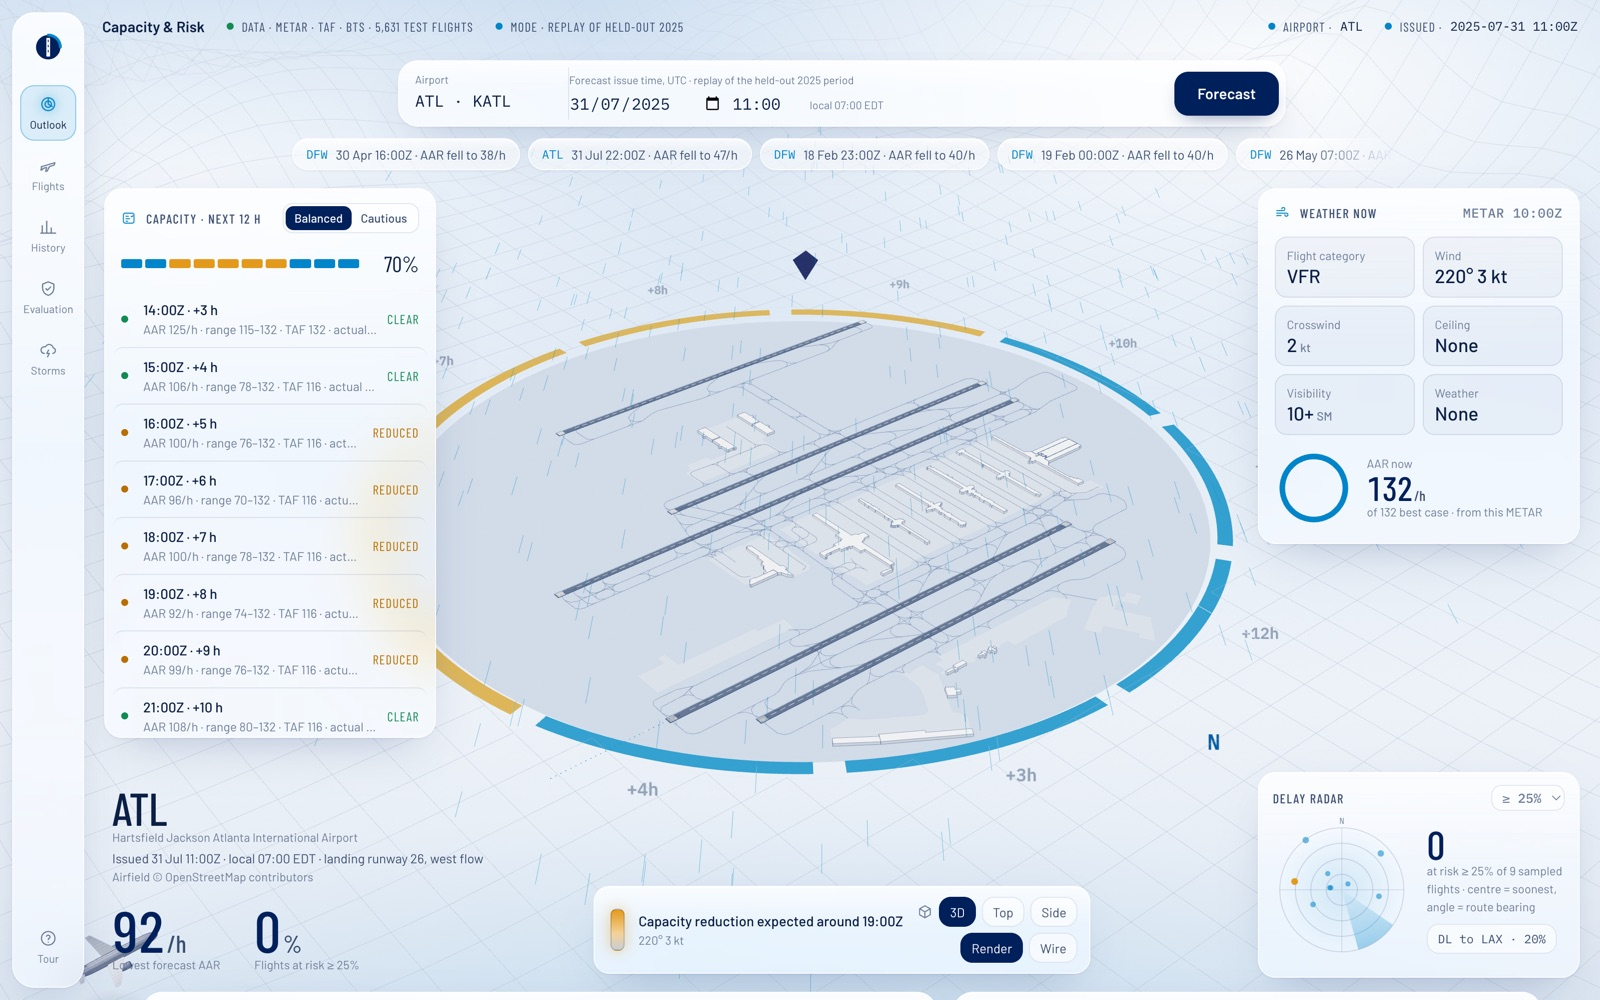
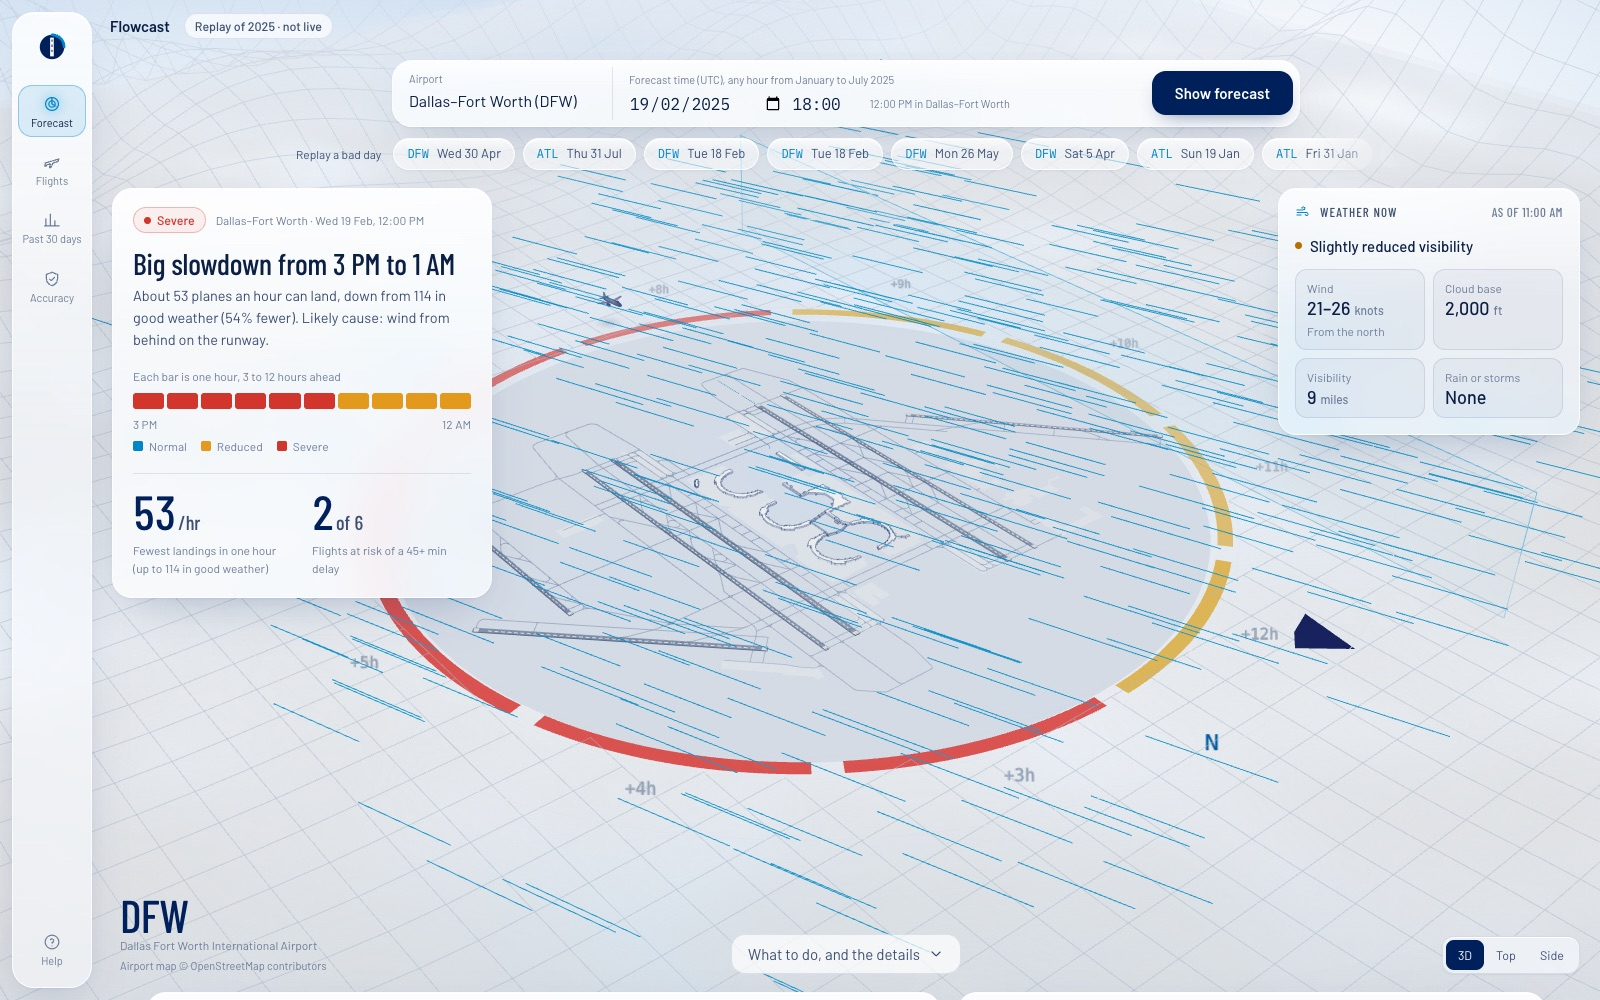
README: describe the simplified dashboard, new screenshot
Refresh the dashboard screenshot and its alt text, and list the four views.
Also move the wind direction in the weather tile onto its own line
("From the north") so the value no longer wraps awkwardly.

diff --git a/dashboard/web/app.js b/dashboard/web/app.js
@@ -34,7 +34,7 @@ const AIRLINES = { AA: "American", DL: "Delta", UA: "United", WN: "Southwest", B
 const HAZ = { thunder: "thunderstorms", low_vis: "low cloud or poor visibility", xwind: "strong crosswind on the runway", tail: "wind from behind on the runway" };
 const WX = { TS: "thunderstorm", SH: "showers", FZ: "freezing", RA: "rain", SN: "snow", DZ: "drizzle", BR: "mist", FG: "fog", HZ: "haze", GR: "hail", GS: "hail",
              PL: "ice pellets", UP: "rain or snow", SQ: "squalls", VC: "nearby", FU: "smoke" };
-const COMPASS = ["N", "NE", "E", "SE", "S", "SW", "W", "NW"];
+const COMPASS = ["north", "north-east", "east", "south-east", "south", "south-west", "west", "north-west"];
 
 // ---------- state ----------
 const S = { view: "outlook", meta: null, icao: "KATL", t0: "", sens: "balanced", thr: 0.25, reveal: true, out: null, hist: null, ev: null,
@@ -171,12 +171,12 @@ function weatherBody(w) {
   const CAT = { VFR: ["Good flying weather", "ok"], MVFR: ["Slightly reduced visibility", "warn"], IFR: ["Low cloud or poor visibility", "stop"], LIFR: ["Very low cloud or fog", "stop"] };
   const [say, tone] = CAT[w.category] || ["Conditions not reported", "mute"];
   const x = Math.abs(w.crosswind_kt ?? 0), c = w.ceiling_ft, v = w.vis_mi;
-  const wind = w.wind_kt == null ? "—" : w.wind_kt < 1 ? "Calm"
-    : `${w.wind_kt}${w.gust_kt ? `–${w.gust_kt}` : ""}<small>knots${w.wind_dir == null ? "" : ` from ${COMPASS[Math.round(w.wind_dir / 45) % 8]}`}</small>`;
+  const wind = w.wind_kt == null ? "—" : w.wind_kt < 1 ? "Calm" : `${w.wind_kt}${w.gust_kt ? `–${w.gust_kt}` : ""}<small>knots</small>`;
+  const windSub = [w.wind_kt >= 1 && w.wind_dir != null ? `From the ${COMPASS[Math.round(w.wind_dir / 45) % 8]}` : "", x >= 10 ? `${x} knots across the runway` : ""].filter(Boolean).join(", ");
   const tile = (l, val, t = "", sub = "") => `<div class="tile"><div class="label">${l}</div><div class="tv t-${t}">${val}</div>${sub}</div>`;
   return `<p class="wx-say"><span class="dot ${tone}"></span>${say}</p>
     <div class="tiles">
-      ${tile("Wind", wind, x >= 15 ? "stop" : x >= 10 ? "warn" : "", x >= 10 ? `<div class="label">${x} knots across the runway</div>` : "")}
+      ${tile("Wind", wind, x >= 15 ? "stop" : x >= 10 ? "warn" : "", windSub ? `<div class="label">${windSub}</div>` : "")}
       ${tile("Cloud base", c == null || c >= 12000 ? "High or none" : `${n0(c)}<small>ft</small>`, c != null && c < 1000 ? "stop" : c != null && c < 3000 ? "warn" : "")}
       ${tile("Visibility", v == null ? "—" : `${v >= 10 ? "10+" : v}<small>miles</small>`, v != null && v < 1 ? "stop" : v != null && v < 3 ? "warn" : "")}
       ${tile("Rain or storms", w.wx ? esc(wxText(w.wx)) : "None", w.thunder ? "stop" : w.wx ? "warn" : "mute")}

diff --git a/README.md b/README.md
@@ -8,10 +8,11 @@ Forecasts, **3 to 12 hours ahead**, for Atlanta (KATL) and Dallas/Fort Worth (KD
 2. the probability that a flight suffers a **severe delay (> 45 min)**, calibrated and scored by PR-AUC and Brier.
 
 Both are shown to an air-traffic duty manager in a web dashboard with history, flight-level drivers and
-plain-language recommendations. Built for **Autonomous SG 2026, AI & Aerospace track, Airbus Challenge #5**
+plain-language recommendations. The dashboard is written so a first-time reader can follow it: plain English and
+local airport times up front, the full technical evidence one click away, and a layout that works on phones. Built for **Autonomous SG 2026, AI & Aerospace track, Airbus Challenge #5**
 ("Predictive Airport Capacity and Weather Delay Risk"; brief in [`Problem Statements.md`](Problem%20Statements.md)).
 
-![Flowcast dashboard: ATL outlook with the 12-hour capacity ring, current METAR and delay radar](presentation/img/dashboard_outlook.jpg)
+![Flowcast dashboard: DFW forecast with a big slowdown from 3 PM to 1 AM, the hour-by-hour bar, current weather and the 3D airfield](presentation/img/dashboard_outlook.jpg)
 
 > The dashboard is a **replay of the held-out January–July 2025 test period**, not a live forecast. Models never saw 2025 data.
 
@@ -76,6 +77,10 @@ flowchart LR
 * **Dashboard.** [`dashboard/server.py`](dashboard/server.py) is a `http.server` handler with no framework, and
   [`api/index.py`](api/index.py) re-exports it as the Vercel function, so local and deployed behaviour are identical.
   The frontend is plain ES modules; three.js loads from a CDN import map, so there is no build step.
+  It has four views: **Forecast** (one plain answer, suggested actions with a glossary, and a landings chart),
+  **Flights** (each sampled flight's delay chance and its main reasons), **Past 30 days**, and **Accuracy** (plain
+  questions and failure cases first; RMSE, PR-AUC, calibration and storm-hour results under "Technical results for
+  specialists").
 
 ### API
 
@@ -84,7 +89,7 @@ All endpoints are `GET`, return JSON and take `airport=KATL|KDFW`.
 | Endpoint | Extra params | Returns |
 |---|---|---|
 | `/api/meta` | | Airports, replay window, the worst-capacity days to jump to |
-| `/api/outlook` | `t0` (UTC issue time), `sens=balanced\|cautious`, `thr` (risk threshold) | 3–12 h AAR forecast with range, current weather, at-risk flights, recommendations |
+| `/api/outlook` | `t0` (UTC issue time), `sens=balanced\|cautious`, `thr` (risk threshold) | 3–12 h AAR forecast with range, current weather, at-risk flights with plain-English drivers, recommendations |
 | `/api/history` | `t0` | Last 30 days of AAR and predicted vs observed delay rate, plus a weekday × hour low-capacity heatmap |
 | `/api/eval` | `lead` | Test-set metrics against baselines |
 | `/api/storm` | `lead` | Storm-hour results from the full-BTS pipeline |
